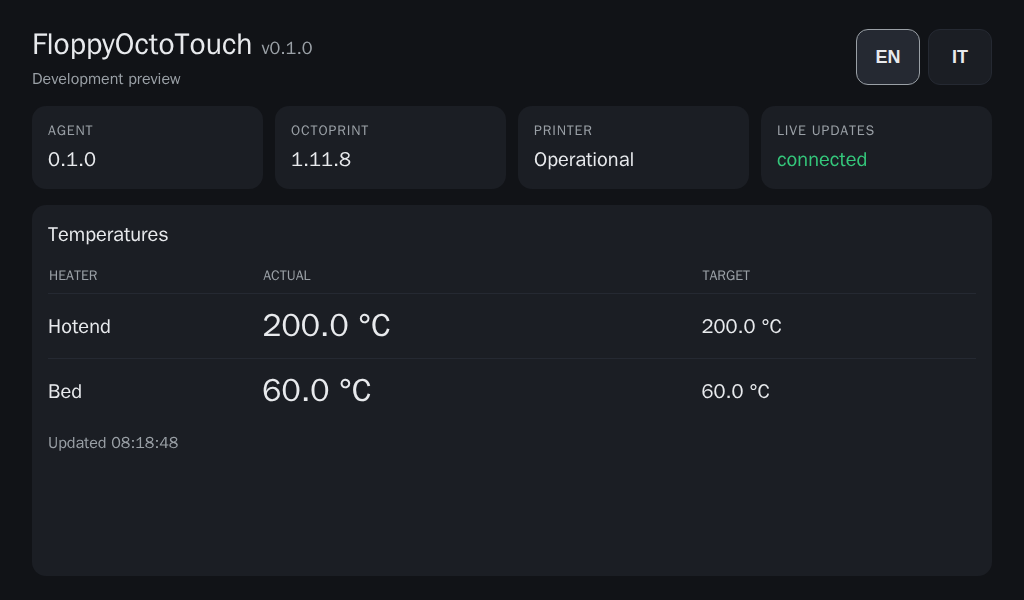
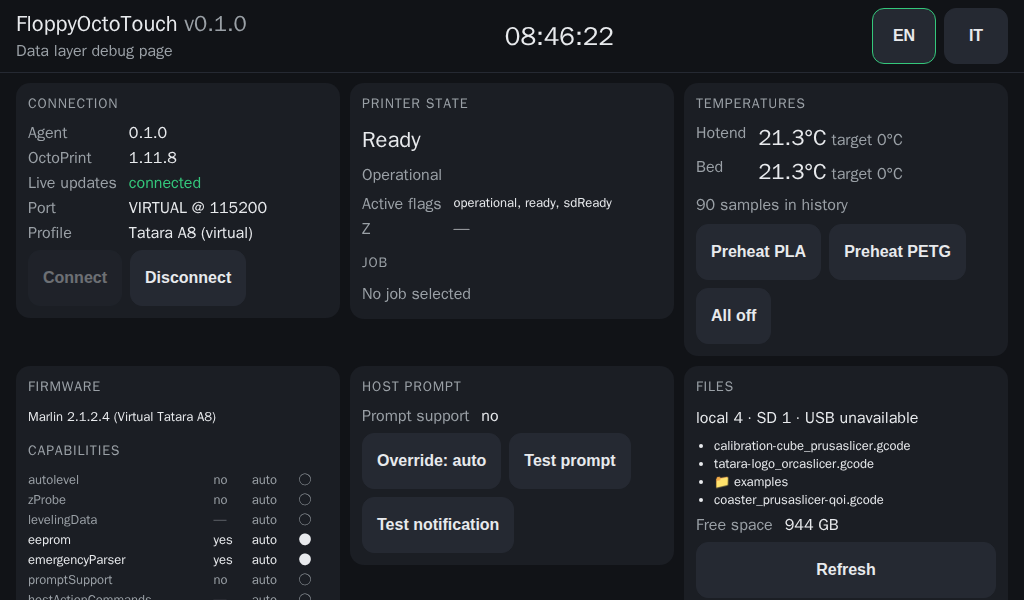
docs: update docs for the data layer and bump version to 0.2.0

diff --git a/docs/ARCHITECTURE.md b/docs/ARCHITECTURE.md
@@ -47,29 +47,69 @@ Package `agent/floppyoctotouch_agent`:
 | GET | `/local/settings` | dashboard settings document (defaults on first start) |
 | PUT | `/local/settings` | replace the settings document (JSON object) |
 | * | `/api/**`, `/sockjs/**`, `/plugin/**`, `/downloads/**` | proxied to OctoPrint |
-| GET | everything else | static files from `static_dir`, `index.html` fallback for extension-less paths |
+| GET | everything else | static files from `static_dir`, `index.html` fallback for extension-less paths (never for `/local/*`, which answers 404) |
 
-The settings document is owned by the frontend (schema version, migrations and full defaults arrive with the
-data layer); the agent only stores it.
+The settings document is owned by the frontend (schema version, migrations and defaults live in
+`frontend/src/lib/core/settings.ts`); the agent only stores it. The agent's own defaults are the v1 document of
+session 1, which the frontend migrates on first load.
 
 ## Frontend
 
 Svelte 5 (runes) + TypeScript, built by Vite into static files. No runtime dependency on the Internet: fonts and
 icons will be bundled.
 
-- `src/lib/api/http.ts`: JSON helpers (same-origin requests).
-- `src/lib/api/octoprint.ts`: REST calls (`/api/version`, `/api/connection`, passive login, agent health).
-- `src/lib/api/socket.ts`: push API client over the raw WebSocket `/sockjs/websocket`.
-- `src/lib/i18n/`: `en.json`, `it.json`, `t()` with runtime switch (default English).
+| Folder | Content |
+|---|---|
+| `src/lib/api/` | transport: `http.ts` (JSON helpers, path encoding), `octoprint.ts` (typed REST client), `agent.ts` (`/local/*`), `socket.ts` (push API), `types.ts` (OctoPrint 1.11 types) |
+| `src/lib/core/` | pure, unit-tested logic: M115 capabilities, host action parser, temperature ring buffer, file tree helpers, printer phase and plugin detection, settings schema/migrations, formatting |
+| `src/lib/stores/` | Svelte 5 stores (classes with `$state`/`$derived`, one singleton each) and `dataLayer.ts`, which wires the socket to them |
+| `src/lib/i18n/` | `en.json`, `it.json`, `t()`, `setLocale()` (default English) |
+| `src/screens/` | screens; for now only the temporary `Debug.svelte` |
+
+OctoPrint returns absolute `refs` URLs built from its own host (e.g. `http://octoprint:5000/...` in Docker):
+the client never uses them and always builds relative paths.
 
 ### Live updates (push API)
 
 1. open `ws://<agent>/sockjs/websocket` (the agent relays it to OctoPrint with the API key);
 2. OctoPrint sends `{"connected": …}`;
 3. the app calls `POST /api/login {"passive": true}` (authenticated by the injected API key) and gets `name` and `session`;
-4. the app sends `{"auth": "name:session"}`; from now on `current`, `history`, `event`, `plugin` messages arrive
-   (`current` roughly every 500 ms with state and temperatures);
-5. on close the client reconnects with exponential backoff (1 s → 15 s).
+4. the app sends `{"auth": "name:session"}` and `{"throttle": 2}`; from now on `history` (once), `current`
+   (about once per second, logs and temperatures are batched by OctoPrint so nothing is lost), `event` and
+   `plugin` messages arrive;
+5. `reauthRequired` repeats the passive login on the same socket; on close the client reconnects with
+   exponential backoff (1 s → 15 s).
+
+### Data layer
+
+`startDataLayer()` loads the settings from the agent, polls `/local/health` every 5 s until OctoPrint is reachable
+and authorised, then opens the socket. Each time the socket is authenticated it reloads over REST what the socket
+does not carry: `/api/connection`, `/api/settings`, `/api/printerprofiles`, `/api/files?recursive=true` (local
+and SD card in one call) and `/local/usb`. After that REST is only used on events that announce a change:
+
+| Event | Reaction |
+|---|---|
+| `UpdatedFiles`, `FileAdded`, `FileRemoved`, `FolderAdded`, `FolderRemoved` | file list reload (debounced 500 ms) |
+| `Connected` | reload connection and printer profile; OctoPrint sends M115 itself |
+| `Disconnected` | reset firmware capabilities and host prompts |
+| `SettingsUpdated` / `PrinterProfileModified` | reload settings / profile |
+| `FirmwareData` | firmware name |
+
+| Store | Source | Notes |
+|---|---|---|
+| `connection` | `/local/health`, socket status, `connected`, `/api/connection` | connect/disconnect |
+| `printer`, `job` | `current.state`, `job`, `progress`, `currentZ` | `phase` derived from the flags, `busy` while a job exists, ETA |
+| `temperatures` | `history.temps` / `current.temps` | `TemperatureHistory` (typed arrays, 2048 samples ≈ 30 min+); `revision` bumps on new samples |
+| `terminal` | `history.logs` / `current.logs` | last 1000 lines |
+| `capabilities` | `Cap:` lines of the M115 answer in the log + settings overrides | sends M115 once if the report is unknown |
+| `prompt` | `//action:` lines of live logs (not `history`, to avoid replaying answered prompts) | answers via the Action Command Prompt plugin when the firmware reported `PROMPT_SUPPORT`, else `M876 S<n>` |
+| `files` | `/api/files`, `/local/usb` | USB status `unavailable` until the agent endpoint exists (session 5) |
+| `server` | `/api/settings`, `/api/printerprofiles`, `plugin` messages | plugin detection from the `plugins` keys of the settings |
+| `events` | `event` messages + `host:prompt`, `host:promptClosed`, `host:notification`, `host:action` | `events.on(type, handler)`, last 50 kept |
+| `settings` | `/local/settings` | migrated on load, saved 400 ms after `settings.update()` |
+
+Implementation note: keys added to a deep `$state` proxy are not picked up by `in` checks inside an already
+computed `$derived`; stores that are read through such checks use `$state.raw` and replace the object.
 
 ## Development environment
 
@@ -77,7 +117,7 @@ icons will be bundled.
 
 | Service | Image | Notes |
 |---|---|---|
-| `octoprint-init` | `octoprint/octoprint:1.11.8` | one-shot: merges `dev/octoprint/config.yaml` into the image's config (first start only), copies `dev/sample-gcode`, creates the admin user, registers `OCTOPRINT_API_KEY` as an application key |
+| `octoprint-init` | `octoprint/octoprint:1.11.8` | one-shot: merges `dev/octoprint/config.yaml` into the image's config (first start only), copies `dev/sample-gcode` (plus `examples/` folder and a virtual SD file), creates the admin user, registers `OCTOPRINT_API_KEY` as an application key |
 | `octoprint` | `octoprint/octoprint:1.11.8` | OctoPrint on port 5000 (haproxy on 80 is not used), Virtual Printer with SD, volume `octoprint-data` |
 | `agent` | `dev/docker/agent.Dockerfile` (Python 3.11) | source mounted, hot reload with `watchfiles` (polling), `dev/fake-usb` mounted as `/media/usb0` |
 | `frontend` | `dev/docker/frontend.Dockerfile` (Node 24) | Vite dev server on 5173 proxying to the agent; `node_modules` in a named volume |

diff --git a/docs/PLAN.md b/docs/PLAN.md
@@ -437,7 +437,7 @@ _Legenda: `[ ]` da fare · `[~]` in corso (interrotta se la trovi a inizio sessi
 
 - [x] Sessione 0 — Raccolta requisiti e piano (2026-09-25), integrazione requisiti mancanti (2026-09-25)
 - [x] Sessione 1 — Fondamenta, repo e ambiente Docker (2026-09-25, v0.1.0)
-- [ ] Sessione 2 — Data layer
+- [x] Sessione 2 — Data layer (2026-09-25, v0.2.0)
 - [ ] Sessione 3 — Design system e shell
 - [ ] Sessione 4 — Home, controllo stampa, screensaver, notifiche
 - [ ] Sessione 5 — File
@@ -500,3 +500,48 @@ _(ogni sessione aggiunge qui decisioni prese, deviazioni dal piano, problemi ape
 - Su richiesta dell'utente aggiunti gli **indicatori ad anello** (immagine di riferimento in stile "OctoPrint status
   screen"): requisito in sezione 1, componente RingGauge in S3, layout Home con anelli in S4, anelli CPU/RAM/disco
   e metriche agent in S8. Non era previsto prima. Adattarli al tema scuro e al colore d'accento scelto in S3.
+
+**Sessione 2 — Data layer (2026-09-25, v0.2.0)**
+- Fatto: client REST tipizzato (`lib/api/octoprint.ts`, `agent.ts`), socket con `reauthRequired` e throttle 2
+  (≈1 Hz; OctoPrint accumula log e temperature, non si perde nulla), logica pura testata in `lib/core/`
+  (M115, host action, buffer circolare temperature, albero file, fase stampante, rilevamento plugin, schema
+  impostazioni, formattazione), store Svelte 5 in `lib/stores/` + `dataLayer.ts` che collega il socket agli store,
+  pagina di debug temporanea `screens/Debug.svelte`. 53 test vitest, 11 pytest; bundle 27,4 KB gzip.
+- Verificato contro la Virtual Printer (Playwright, anche sulla build servita dall'agent): dati live, M115 inviato
+  dalla dashboard se il report manca, capability, plugin, file local + cartella + SD, prompt host mostrato e
+  risposto (`M876 S0`), notifica, lingua persistita dopo reload, **riconnessione del socket dopo il riavvio di
+  OctoPrint** (punto aperto da S1 chiuso), stampa → pausa → annullamento con eventi e job store coerenti.
+- Decisioni:
+  - `/api/files?recursive=true` restituisce local **e** sdcard in una sola chiamata (si separa per `origin`).
+  - Plugin rilevati dalle chiavi `plugins` di `/api/settings` (niente permessi admin, `/plugin/pluginmanager/plugins`
+    è più lento).
+  - Prompt host letti dai log live (mai da `history`, per non riaprire prompt già risposti). Risposta tramite API
+    del plugin bundled Action Command Prompt **solo se** il firmware ha riportato `Cap:PROMPT_SUPPORT` (altrimenti
+    il plugin scarta la risposta in silenzio), altrimenti `M876 S<n>` via `/api/printer/command`. Il plugin forza
+    l'invio di M876 anche mentre Marlin è in attesa dell'utente.
+  - Capability: `detected` (M115) + override `auto/on/off` nelle impostazioni; M600, M701/M702 e MBL manuale
+    solo manuali. M115 inviato una volta se il report non è noto; reset su `Disconnected`.
+  - Schema impostazioni v2 (v1 = default dell'agent di S1): preset PLA/PETG/TPU, 4 macro di esempio, soglie
+    250/90 e massimi 275/110, screensaver 5 min, spegnimento schermo off/30 min, beep `M300 S880 P400`,
+    filamento prudente (tipo `unknown`, bowden 0, carico lento 100 mm a 150 mm/min, scarico 100 mm, spurgo 20 mm,
+    flag `configured` per l'avviso al primo wizard). Nomi di preset/macro = dati utente, non passano da i18n.
+  - Eventi applicativi `host:prompt`, `host:promptClosed`, `host:notification`, `host:action` sul bus `events`
+    (utili in S4). Messaggi `plugin` conservati per plugin in `server.pluginMessages` (DisplayLayerProgress in S4).
+- Deviazioni / scoperte:
+  - Bug Svelte 5 (reattività): chiavi aggiunte a un proxy `$state` profondo non viste da `in` in un `$derived`
+    già calcolato → `capabilities` usa `$state.raw` con sostituzione dell'oggetto (test di regressione aggiunto).
+  - Bug della Virtual Printer: i file SD con nome già 8.3 spariscono da M20 → in `init.sh` si usa
+    `virtualSd/sd-cube.gcode`; aggiunta anche la cartella `uploads/examples/`.
+  - I 3 PNG finiti per errore sotto `dev/e2e/C:/...` nel commit di S1 venivano dalla riscrittura MSYS di
+    `-e SCREENSHOT_DIR=/tmp`: rimossi (gotcha in CLAUDE.md).
+  - L'agent rispondeva con la pagina SPA anche a `/local/<sconosciuto>`: ora 404 (test aggiunto).
+  - `temperatures.ts` di S1 sostituito da `core/tempHistory.ts` + store.
+- Problemi aperti / note per le prossime sessioni:
+  - `/local/usb` non esiste ancora (S5): lo store USB resta `unavailable` e il browser logga un 404 a ogni avvio.
+  - La pagina di debug (e `App.svelte`) va sostituita dalla shell in S3; `window.__fot` espone gli store solo in dev.
+  - Il servizio webcam, PSU Control e azioni personalizzate non sono nello schema impostazioni: aggiungerli con
+    una migrazione v3 quando servono (S4/S8).
+  - `printer.currentZ` resta `null` con la Virtual Printer (non invia la Z durante il file di prova).
+- Comandi utili: `docker compose -f dev/docker-compose.yml run --rm octoprint-init` (riapplica campioni/SD senza
+  `down -v`); smoke test sulla build dell'agent:
+  `MSYS_NO_PATHCONV=1 docker compose -f dev/docker-compose.yml run --rm -e BASE_URL=http://agent:8765 -e SCREENSHOT_DIR=/tmp playwright`.

diff --git a/CLAUDE.md b/CLAUDE.md
@@ -53,9 +53,14 @@ docker compose -f dev/docker-compose.yml down -v             # wipe OctoPrint/ag
 
 ```
 agent/floppyoctotouch_agent/   config.py, proxy.py, settings.py, app.py, __main__.py; tests in agent/tests
-frontend/src/lib/api/          http.ts, octoprint.ts, socket.ts, temperatures.ts, types.ts
-frontend/src/lib/i18n/         en.json, it.json, index.svelte.ts (t(), runtime locale)
-frontend/src/lib/{stores,ui}/, frontend/src/screens/   (empty, from sessions 2-3)
+frontend/src/lib/api/          http.ts, octoprint.ts (typed REST), agent.ts (/local/*), socket.ts, types.ts
+frontend/src/lib/core/         pure logic + tests: capabilities (M115), hostActions, tempHistory, files,
+                               printerState (phase, plugins), settings (schema/defaults/migrations), format
+frontend/src/lib/stores/       *.svelte.ts singletons (connection, printer/job, temperatures, files, terminal,
+                               events, capabilities, prompt, server, settings) + dataLayer.ts (socket wiring)
+frontend/src/lib/i18n/         en.json, it.json, index.svelte.ts (t(), setLocale())
+frontend/src/lib/ui/           empty (session 3)
+frontend/src/screens/          Debug.svelte (temporary page showing every store, replaced in session 3)
 frontend/preview.html          1024×600 frame around the app (also in the production build)
 dev/docker-compose.yml         dev stack + tool services; dev/docker/*.Dockerfile
 dev/octoprint/                 seed config.yaml + init.sh for the OctoPrint volume
@@ -69,14 +74,28 @@ deploy/, scripts/              placeholders (session 9)
 
 - The `octoprint/octoprint` image already ships a `config.yaml` in the volume: `init.sh` deep-merges the seed
   once (marker `.floppyoctotouch-seeded`). Changing `dev/octoprint/config.yaml` requires `down -v`.
+  The rest of `init.sh` (samples, API key) runs at every `up`, or on demand with `run --rm octoprint-init`.
 - OctoPrint in the image listens on 5000 (haproxy on 80 is unused). Healthcheck uses `/robots.txt`.
 - Windows bind mounts do not deliver inotify events: Vite and watchfiles use polling (already configured).
 - Vite only accepts known hosts: `frontend` is whitelisted for the Playwright container.
 - The Playwright npm version in `dev/e2e/package.json` must match the `mcr.microsoft.com/playwright` image tag.
 - The Virtual Printer reports a `chamber` entry with `null` values: the UI hides heaters without readings.
+- Virtual Printer SD card: files whose name is already 8.3 (e.g. `CUBE.GCO`) are silently dropped from M20
+  (bug in its name map); use long names in `virtualSd/`. `!!DEBUG:action_custom <action> <params>` makes it emit
+  `//action:` lines (host prompts/notifications). OctoPrint only lists SD files after an SD refresh (M20).
+- `-e VAR=/path` in `docker compose run` from Git Bash is rewritten by MSYS into a Windows path: prefix
+  `MSYS_NO_PATHCONV=1` (this is how stray files ended up under `dev/e2e/C:/...` in session 1).
+- Svelte 5: keys added to a deep `$state` proxy are not seen by `in` checks inside an already computed
+  `$derived`. Use `$state.raw` and replace the object (see `capabilities.svelte.ts`).
+- OctoPrint `refs` URLs are absolute to its own host (`http://octoprint:5000/...`): never use them.
+- The Action Command Prompt plugin drops prompt answers unless the firmware reported `Cap:PROMPT_SUPPORT`;
+  `prompt.answer()` then falls back to `M876 S<n>`.
+- In dev the stores are exposed as `window.__fot` (handy for Playwright one-off checks).
 - In the Bash tool, long multi-file heredocs can fail to parse: prefer the Write tool for new files.
 
 ## Current state
 
-v0.1.0 (session 1): dev environment, agent (static, proxy incl. WebSocket, settings, health), minimal page with
-live temperatures. Next: session 2 (data layer). See `docs/PLAN.md` for details and notes between sessions.
+v0.2.0 (session 2): complete data layer (typed REST + socket client, Svelte 5 stores, settings schema v2 with
+migrations synced to the agent, M115 capabilities, Marlin host prompts, file sources), temporary debug page.
+Next: session 3 (design system and app shell; stop after the accent colour screenshots).
+See `docs/PLAN.md` for details and notes between sessions.

diff --git a/README.md b/README.md
@@ -3,11 +3,11 @@
 A touch-first dashboard for [OctoPrint](https://octoprint.org/), designed for a Raspberry Pi 4 running
 OctoPi with a 7" 1024×600 HDMI touch screen, shown full screen in a Chromium kiosk.
 
-> **Status: early development (v0.1.0).** The foundations are in place (development environment, local agent,
-> live connection to OctoPrint). The actual screens are being built session by session, see
-> [`docs/PLAN.md`](docs/PLAN.md) (Italian) and [`CHANGELOG.md`](CHANGELOG.md).
+> **Status: early development (v0.2.0).** The foundations are in place (development environment, local agent,
+> live connection to OctoPrint, complete data layer shown on a temporary debug page). The actual screens are
+> being built session by session, see [`docs/PLAN.md`](docs/PLAN.md) (Italian) and [`CHANGELOG.md`](CHANGELOG.md).
 
-![Development preview at 1024×600](docs/images/home-v0.1.0.png)
+![Data layer debug page at 1024×600](docs/images/debug-v0.2.0.png)
 
 ## Planned features
 
@@ -53,8 +53,16 @@ docker compose -f dev/docker-compose.yml up -d
 | http://localhost:5000/ | OctoPrint with the Virtual Printer (user `admin`, password `admin`) |
 
 The development OctoPrint is prepared automatically on first start (`octoprint-init` service): seed config
-(Virtual Printer with SD card, auto-connect, 220×220×240 printer profile), admin user, sample G-code files.
+(Virtual Printer with SD card, auto-connect, 220×220×240 printer profile), admin user, sample G-code files
+(plus an `examples/` folder and one file on the virtual SD card).
 To start from scratch: `docker compose -f dev/docker-compose.yml down -v`.
+
+Until the real screens exist, the app shows a **debug page** with every data store (connection, printer state,
+job, temperatures, files, firmware capabilities, plugins, host prompts, settings, events, terminal). In the
+Vite dev server the stores are also available in the browser console as `window.__fot`.
+
+The Virtual Printer can emit Marlin host actions to test prompts and notifications, e.g. send
+`!!DEBUG:action_custom notification Hello` from the OctoPrint terminal (the debug page has buttons for this).
 
 ### OctoPrint API key
 
@@ -82,7 +90,7 @@ All commands are run from the repository root.
 | `docker compose -f dev/docker-compose.yml run --rm agent-test` | agent: ruff lint + format check + pytest |
 | `docker compose -f dev/docker-compose.yml run --rm frontend-test` | frontend: svelte-check + tsc + vitest |
 | `docker compose -f dev/docker-compose.yml run --rm build` | production build of the frontend into `frontend/dist` |
-| `docker compose -f dev/docker-compose.yml run --rm playwright` | smoke test + 1024×600 screenshots into `dev/screenshots/` |
+| `docker compose -f dev/docker-compose.yml run --rm playwright` | smoke test (live data, host prompt, language persistence) + 1024×600 screenshots into `dev/screenshots/` |
 | `docker compose -f dev/docker-compose.yml run --rm shellcheck` | lint every shell script |
 
 Sample G-code files with PrusaSlicer (PNG, QOI) and OrcaSlicer thumbnails live in `dev/sample-gcode/` and are

diff --git a/CHANGELOG.md b/CHANGELOG.md
@@ -6,6 +6,27 @@ and this project adheres to [Semantic Versioning](https://semver.org/spec/v2.0.0
 
 ## [Unreleased]
 
+## [0.2.0] - 2026-09-25
+
+### Added
+- Typed OctoPrint REST client: connection, printer (print head, tools, bed, chamber, SD card, raw commands),
+  job, files (list, select/print, move, copy, delete, folders), printer profiles, settings, system commands,
+  SimpleApi plugin calls; agent client for health, settings and (upcoming) USB listing.
+- Push socket client: `reauthRequired` handling, throttle (1 Hz `current` updates), injectable transport for tests.
+- Svelte 5 stores: connection, printer state and job progress (with ETA), temperatures with a circular history
+  buffer, files from local storage, SD card and USB, terminal log, events bus, firmware capabilities
+  (M115 parsing + manual overrides), Marlin host prompts/notifications (answered with `M876`), OctoPrint
+  settings/profile/plugin detection (PSU Control, Slicer Thumbnails, DisplayLayerProgress, Action Command Prompt).
+- Settings store synchronised with the agent: versioned schema (v2) with migrations and defaults (temperature
+  presets, example macros, confirmation/maximum temperatures, screensaver, screen off, print-done beep,
+  filament parameters, capability overrides); the language choice is persisted.
+- Temporary debug page showing every store; formatting helpers; 53 unit tests.
+- Development data: an `examples/` folder in local storage and a file on the virtual SD card.
+
+### Fixed
+- The agent answers 404 for unknown `/local/*` endpoints instead of the SPA page.
+- Removed screenshots committed by mistake under `dev/e2e/` (MSYS path rewriting).
+
 ## [0.1.0] - 2026-09-25
 
 ### Added
